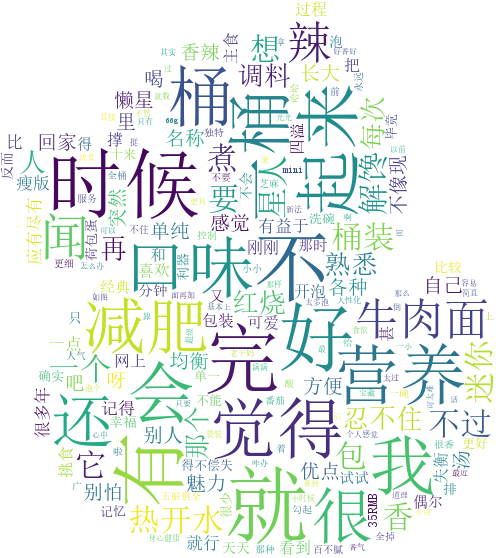
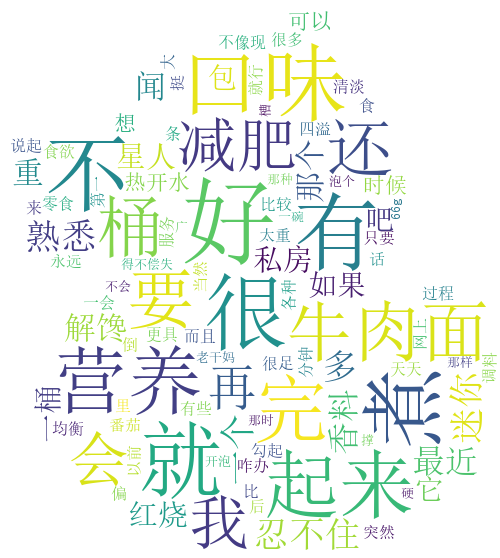
use freq

diff --git a/instant_noodles.py b/instant_noodles.py
@@ -9,30 +9,49 @@ import PIL.Image as Image
 # from matplotlib import pyplot as plt
 from wordcloud import WordCloud
 
+remove_words_map = {
+    "noodles": ["方便面", "拉面", "面皮", "面条", "阿宽", "康师傅", "汤达人", "吃", "味道", "泡面",
+                "外观", "包装", "袋子", "超级", "非常", "凉皮", "袋装", "点评", "面饼",
+                "这", "没", "的", '是', u'也', u'都', u'就是', u'在', u'了',
+                "\[[\w\s]+\]"]  # 最后是去掉表情包
+}
 
-def words_freq_plot(content):
+
+def words_freq_plot(input_content):
     # 文本分词
-    cut_txt = jieba.cut(content, cut_all=False)
+    cut_txt = jieba.cut(input_content, cut_all=False)
     object_list = []
-    remove_words = ["方便面", "拉面", "面条", "康师傅", "汤达人", "吃", "味道", "泡面", "这", "没", "的", '是', u'也', u'都', u'就是', u'在', u'了']
 
     # 词频统计
     for word in cut_txt:
-        if word not in remove_words:
-            object_list.append(word)
+        object_list.append(word)
 
     word_counts = collections.Counter(object_list)
 
     wd = WordCloud(
         font_path=font_path,  # 设置字体格式，不然会乱码
         background_color="white",  # 设置背景颜色
-        mask=background_image  # 设置背景图
+        mask=background_image,  # 设置背景图
+        max_words=100  # 最多展示100个词
     ).generate_from_frequencies(word_counts)
     return wd
 
 
-def analysis_plot(content):
-    tags = jieba.analyse.extract_tags(content, topK=50, withWeight=False)
+def analysis_plot(input_content):
+    tags = jieba.analyse.extract_tags(input_content, topK=100, withWeight=False)
+    text = " ".join(tags)
+    wd = WordCloud(
+        font_path=font_path,  # 设置字体格式，不然会乱码
+        background_color="white",  # 设置背景颜色
+        mask=background_image  # 设置背景图
+    ).generate(text)
+    return wd
+
+
+def combine(input_content):
+    cut_txt = jieba.cut(input_content, cut_all=False)
+    input_content = " ".join(cut_txt)
+    tags = jieba.analyse.extract_tags(input_content, topK=100, withWeight=False)
     text = " ".join(tags)
     wd = WordCloud(
         font_path=font_path,  # 设置字体格式，不然会乱码
@@ -87,24 +106,25 @@ for spuid in spuid_list:
     title_list.append([review.get("title", "") for review in review_list])
     content_list.append([review.get("content", "") for review in review_list])
 
-for i in range(10):
 
+for i in range(10):
     # 定义词频背景
     background_image = np.array(Image.open("duck_image.jpg"))
     font_path = os.path.join(os.path.dirname(__file__), "SIMSUN.TTC")
     # 文本预处理
     content = rec_reason_list[i]+"".join(title_list[i])+"".join(content_list[i])
-    remove_words = ["方便面", "拉面", "面皮", "面条", "阿宽", "康师傅", "汤达人", "吃", "味道", "泡面",
-                    "这", "没", "的", '是', u'也', u'都', u'就是', u'在', u'了',
-                    "\[[\w\s]+\]"]
+    remove_words = remove_words_map["noodles"]
     content = re.sub("|".join(remove_words), '', content)
     content = re.sub(r'[^\w\s]', '', content)
     wd1 = words_freq_plot(content)
-    wd2 = analysis_plot(content)
+    # wd2 = analysis_plot(content)
+    # wd3 = combine(content)
 
     # 保存词云图
     wd1.to_file('pics/rank_%s_freq.png' % i)
-    wd2.to_file('pics/rank_%s_ana.png' % i)
+    # wd2.to_file('pics/rank_%s_ana.png' % i)
+    # wd3.to_file('pics/rank_%s_com.png' % i)
+
     # 显示词云图
     # plt.imshow(wd, interpolation="bilinear")
     # plt.axis("off")
